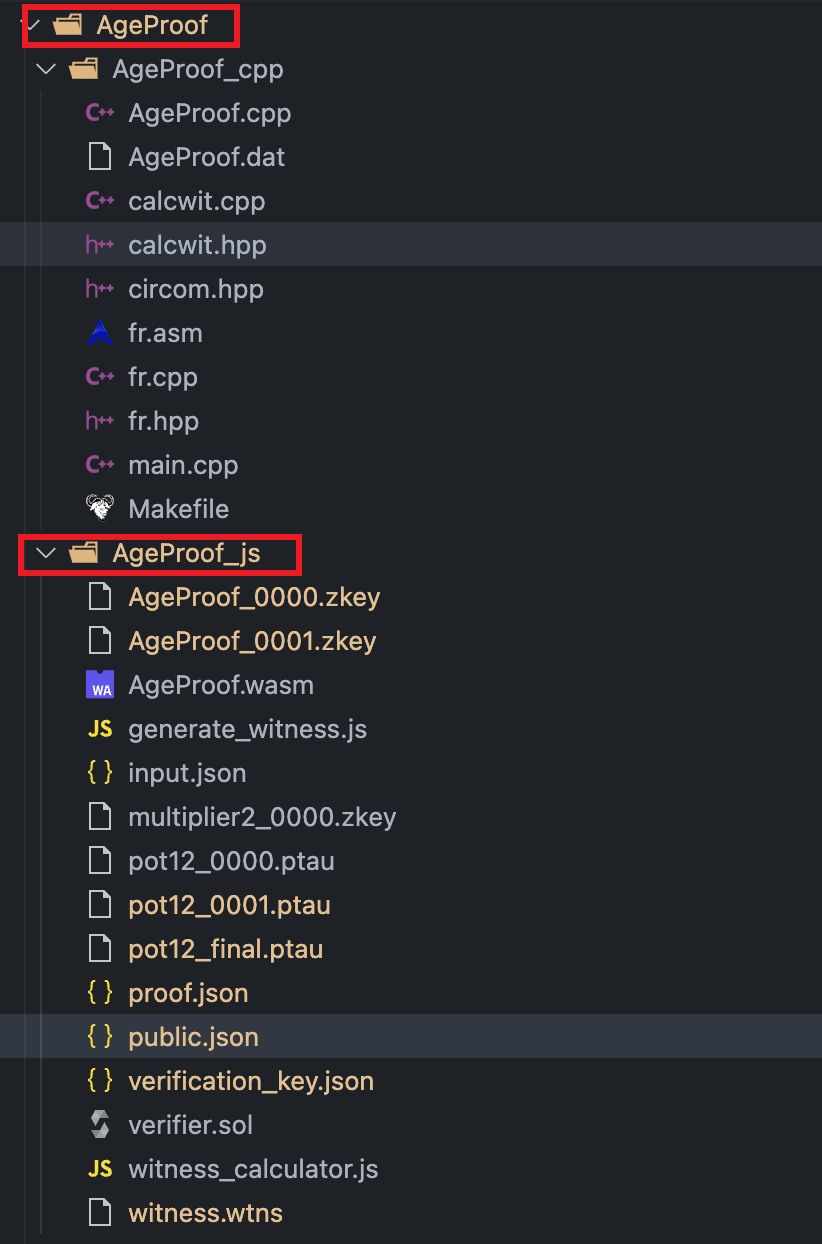
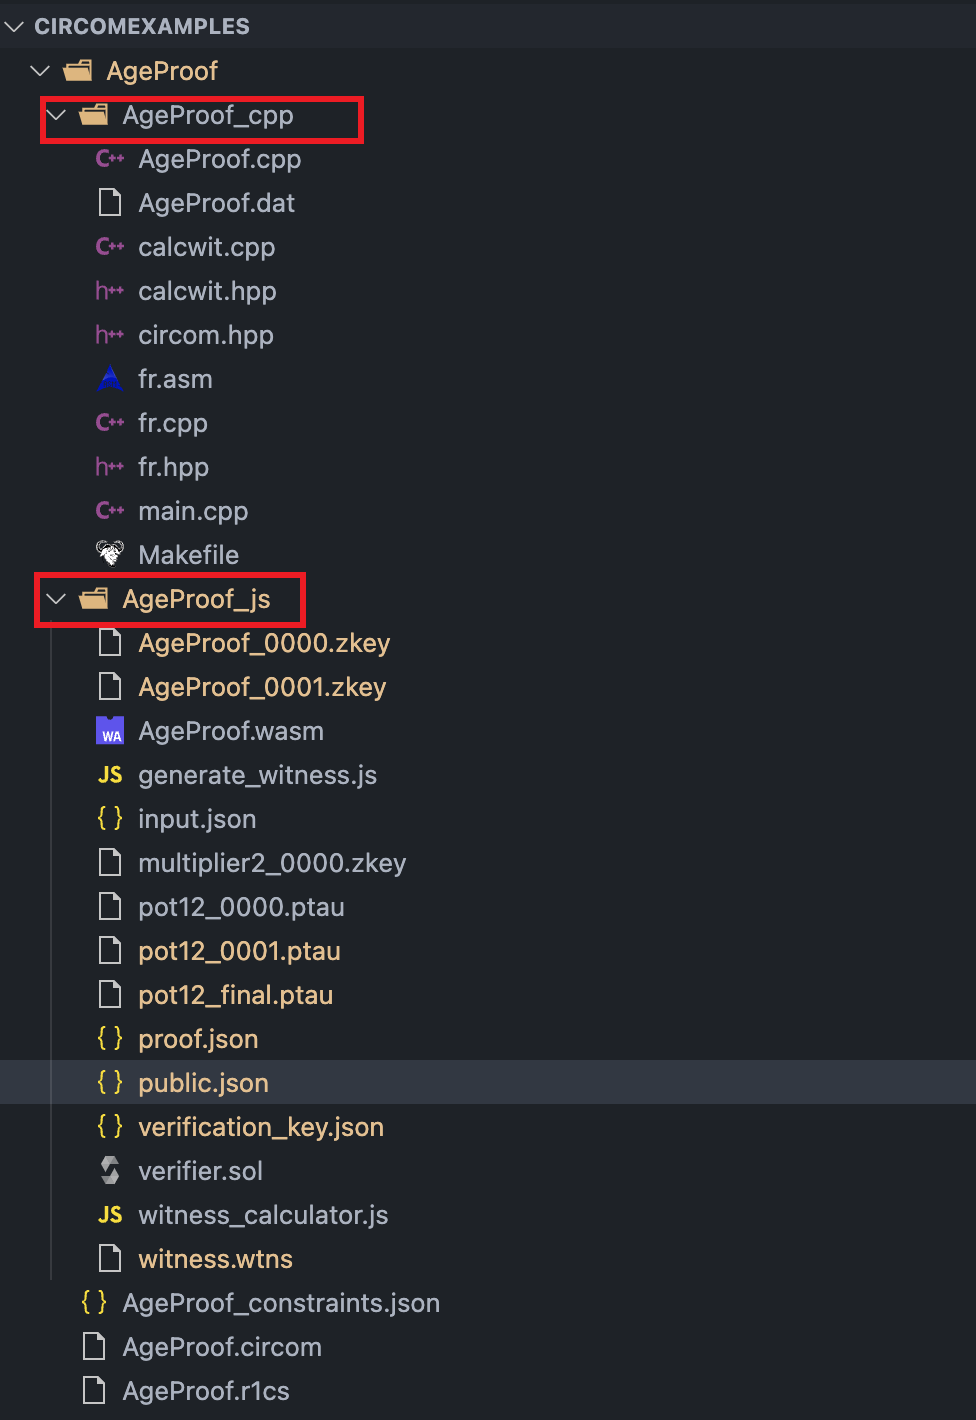
no message

Changed region(s): [[0.0, 0.0, 1.0, 1.0], [0.0304, 0.1833, 0.0608, 0.2138]]

diff --git a/_posts/2024-01-14-brew-install-x86_64-librarys-on-apple-sillicon.md b/_posts/2024-01-14-brew-install-x86_64-librarys-on-apple-sillicon.md
@@ -1,9 +1,9 @@
 ---
 layout: post
-title: 如何在 Apple Sillicon 上使用 HomeBrew 安装 x86_64 的库
-subtitle: How to install x86_64 librarys via HomeBrew on Apple Sillicon
-categories: HomeBrew
-tags: [HomeBrew, arm64, x86_64]
+title: 如何在 Apple Silicon 上使用 Homebrew 安装 x86_64 的库
+subtitle: How to install x86_64 librarys via Homebrew on Apple Silicon
+categories: Homebrew
+tags: [Homebrew, arm64, x86_64]
 ---
 
 ### Circom 生成的 C++代码
@@ -13,3 +13,145 @@ tags: [HomeBrew, arm64, x86_64]
 ```bash
 circom AgeProof.circom --r1cs --wasm --sym --c
 ```
+
+其实会同时生成如下两个目录: `AgeProof_cpp` 和 `AgeProof_js`
+
+![circom 产出的cpp 和 js]({{ "/assets/images/2024-01-14/cpp_dir.png" | absolute url }})
+
+### 用 cpp 代码生成 witness
+
+(如果只关心如何在 M1 上下载 x86_64 的库，可以忽略此段)
+
+上一篇文章中我们只用到了 AgeProof_js 目录下的内容
+
+但其实我们也可以用 cpp 代码来生成 witness
+
+- 安装相关库
+
+  - [nlohmann/json](https://github.com/nlohmann/json)
+
+    https://github.com/nlohmann/json/tree/develop/single_include/nlohmann 目录下的文件拷贝到 AgeProof_cppnlohmann 目录下
+
+  - libgmp
+
+    ```bash
+    brew install gmp
+    ```
+
+  - nasm
+
+    ```bash
+    brew install nasm
+    ```
+
+  - 修改 Makefile 为
+
+    ```makefile
+    CC=g++
+
+    CFLAGS=-std=c++11 -O3 -I. -I/opt/homebrew/opt/gmp/include
+    DEPS_HPP = circom.hpp calcwit.hpp fr.hpp
+    DEPS_O = main.o calcwit.o fr.o fr_asm.o
+
+
+    ifeq ($(shell uname),Darwin)
+      NASM=nasm -fmacho64 --prefix _
+    endif
+    ifeq ($(shell uname),Linux)
+    NASM=nasm -felf64
+    endif
+    all: AgeProof
+    %.o: %.cpp $(DEPS_HPP)
+    $(CC) -c $< $(CFLAGS)
+
+    fr_asm.o: fr.asm
+    $(NASM) fr.asm -o fr_asm.o
+    AgeProof: $(DEPS_O) AgeProof.o
+    $(CC) -o AgeProof \*.o -lgmp -L/opt/homebrew/opt/gmp/lib
+
+    ```
+
+- 执行 `make`, 编译出 `./AgeProof` 可执行文件
+
+- 运行 `./AgeProof input.json witness.wtns` 来实现和 js 一样的功能
+
+  在 circom 文件比较复杂时，cpp 可执行文件的效率, 会比 js 快一些
+
+### 安装 `x86_64` 的 `Homebrew` 和 库
+
+- 安装 `x86_64` 的 `Homebrew`
+
+  此时在 Apple Silicon 的 cpu 上会遇到一个问题, 因为 circom 导出的 `fr.asm` 都是 `x86_64` 的指令，无法被正确编译为 arm64 的可执行文件。
+
+  而如果用 `arch -x86_64 make` 来进行编译， 会提示说 ` libgmp.a`` 是  `arm64`` 架构的，无法被正确链接(或者提示找不到库)。
+
+  此时可以用如下方式在 M1 上安装 x86_64 的 Homebrew 和相关库
+
+  ```bash
+  arch -x86_64 zsh
+  /bin/bash -c "$(curl -fsSL https://raw.githubusercontent.com/Homebrew/install/HEAD/install.sh)"
+  ```
+
+  此时当前的 terminal 会变成 `x86_64` 的环境, 然后会安装 `x86_64` 的 `Homebrew`
+
+  这个 `x86_64` 的 Homebrew 会安装在 `/usr/local/bin/brew` 的位置
+
+  而 Apple Silicon 的 `arm64 Homebrew` 会安装在 `/opt/homebrew/bin/brew` 的位置
+
+  如果出现如下错误
+
+  ```bash
+  Error: Failed to link all completions, docs and manpages:
+  Permission denied @ rb_file_s_symlink - (../../../Homebrew/completions/fish/brew.fish, /usr/local/share/fish/vendor_completions.d/brew.fish)
+  Failed during: /usr/local/bin/brew update --force --quiet
+  ```
+
+  可以执行如下命令后重新运行安装
+
+  ```bash
+  sudo chown -R $(whoami) $(brew --prefix)/*
+  sudo chown -R $(whoami) /usr/local/*
+  ```
+
+- 通过 `Homebrew` 安装 `x86_84` 的 `gmp`
+
+  ```bash
+  arch -x86_64 /usr/local/bin/brew reinstall gmp
+  ```
+
+  这种情况下 gmp 对应的 include 和 lib 目录分别是
+
+  `/usr/local/opt/gmp/include` 和 `/usr/local/opt/gmp/lib`
+
+  我们也可以用 `lipo` 命令来对 `libgmp.a` 进行确认
+
+  ```bash
+  lipo -info /usr/local/opt/gmp/lib/libgmp.a
+  Non-fat file: /usr/local/opt/gmp/lib/libgmp.a is architecture: x86_64
+  ```
+
+- 安装 `arm64` 的 `Homebrew`库
+
+  如果不太确认当前 terminal 是 `x86_64` 还是 `arm64` 的环境，可以执行如下命令来切换到 arm64
+
+  ```bash
+  arch -arm64 zsh
+  ```
+
+  然后运行如下命令之一来安装 `gmp``
+
+  ```bash
+  /opt/homebrew/bin/brew install gmp
+  brew install gmp
+  ```
+
+  这种情况下 gmp 对应的 include 和 lib 目录分别是
+
+  `/opt/homebrew/opt/gmp/include` 和 `/opt/homebrew/opt/gmp/lib`
+
+  我们也可以用 `lipo` 命令来对 `libgmp.a` 进行确认
+
+  ```bash
+  lipo -info /opt/homebrew/opt/gmp/lib/libgmp.a
+  Non-fat file: /opt/homebrew/opt/gmp/lib/libgmp.a is architecture: arm64
+  ```
